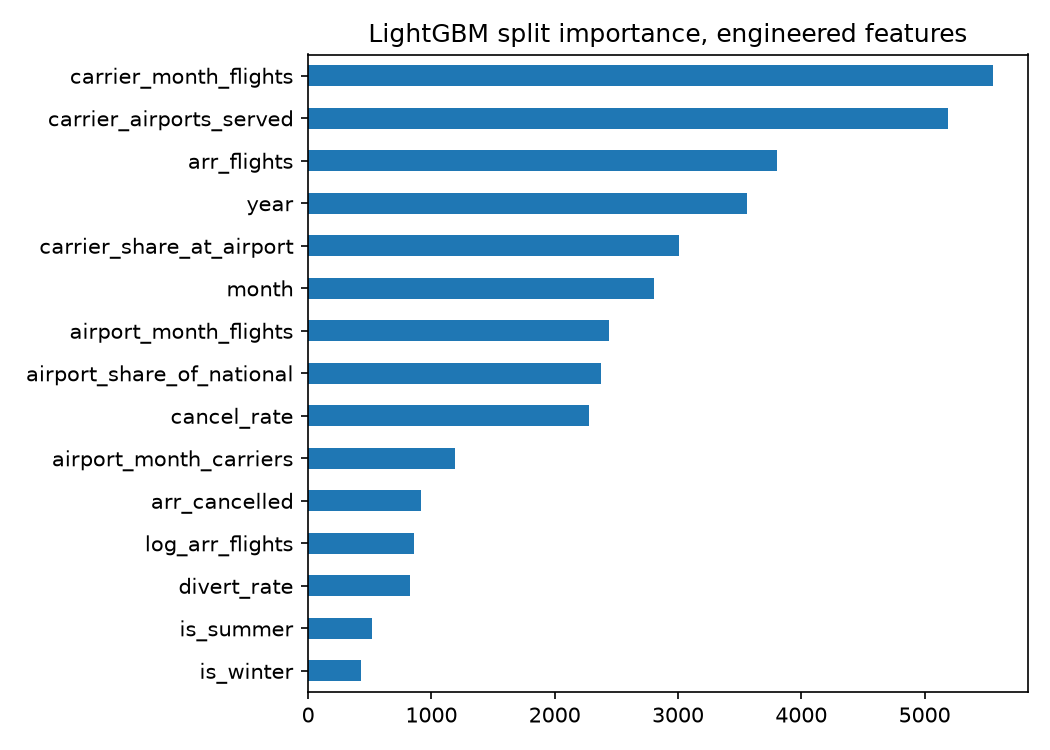
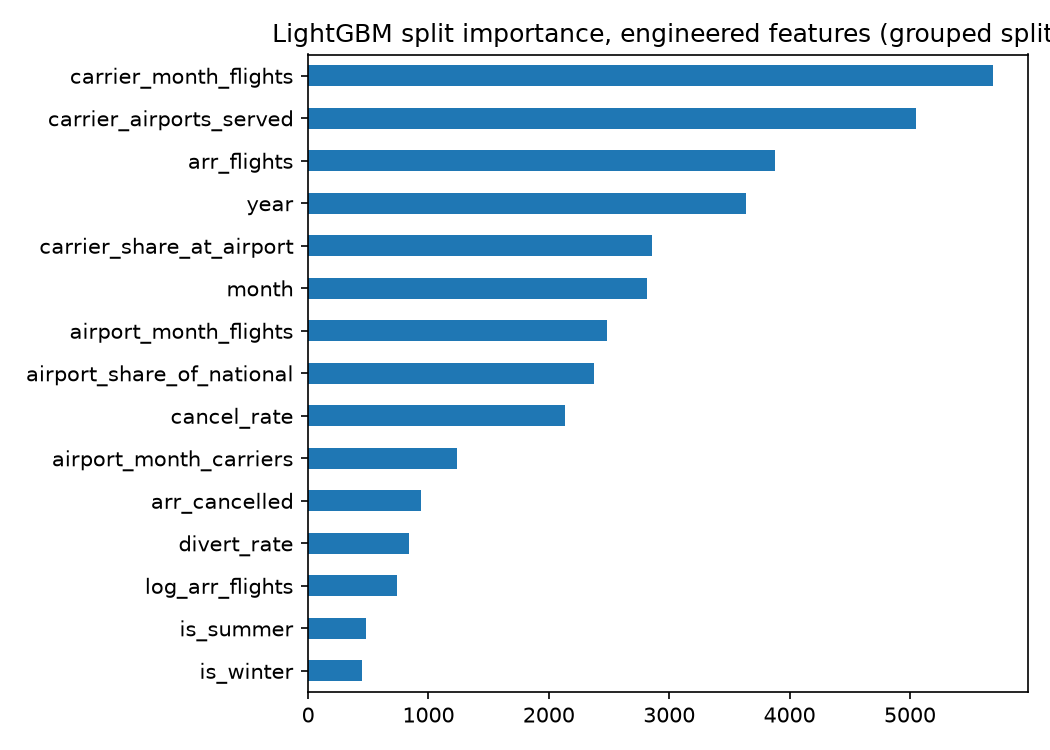
Evaluate on a grouped carrier-airport split as well as the random one
Random stratified split puts 2,528 of 2,630 pairs on both sides and reads 0.869 AUC for LightGBM;
grouping by pair (no overlap) reads 0.852, the number worth quoting.

diff --git a/train.py b/train.py
@@ -9,6 +9,10 @@ Features are built only from traffic volume, market structure, seasonality and d
 delay-cause columns (carrier_ct, weather_ct, nas_ct, ..., arr_delay minutes) are deliberately
 excluded: they are components of the target and would leak it.
 
+Two evaluations are run. A random stratified 80/20 split, as in the course report, and a grouped
+split where every carrier-airport pair lands entirely in train or entirely in test, so the model
+is scored on pairs it has never seen. The grouped number is the one worth quoting.
+
 Usage: python train.py [--data data/Airline_Delay_Cause.csv] [--out results]
 """
 from __future__ import annotations
@@ -24,7 +28,7 @@ from sklearn.metrics import (
     accuracy_score, classification_report, confusion_matrix, f1_score,
     precision_score, recall_score, roc_auc_score, roc_curve,
 )
-from sklearn.model_selection import train_test_split
+from sklearn.model_selection import GroupShuffleSplit, train_test_split
 
 LEAK_COLS = [
     "arr_del15", "carrier_ct", "weather_ct", "nas_ct", "security_ct", "late_aircraft_ct",
@@ -32,7 +36,7 @@ LEAK_COLS = [
 ]
 
 
-def build_features(df: pd.DataFrame) -> tuple[pd.DataFrame, pd.Series]:
+def build_features(df: pd.DataFrame) -> tuple[pd.DataFrame, pd.Series, pd.Series]:
     df = df.dropna(subset=["arr_flights", "arr_del15"]).copy()
     df = df[df["arr_flights"] >= 1]
     df["delay_rate"] = df["arr_del15"] / df["arr_flights"]
@@ -66,10 +70,11 @@ def build_features(df: pd.DataFrame) -> tuple[pd.DataFrame, pd.Series]:
     # identity of carrier and airport, one-hot encoded
     cats = pd.get_dummies(df[["carrier", "airport"]], prefix=["carrier", "airport"], dtype=np.uint8)
     f = pd.concat([f, cats], axis=1)
-    return f, y
+    groups = (df["carrier"] + "|" + df["airport"]).rename("pair")
+    return f, y, groups
 
 
-def evaluate(name: str, model, X_test, y_test, out: Path) -> dict:
+def evaluate(name: str, model, X_test, y_test) -> dict:
     proba = model.predict_proba(X_test)[:, 1]
     pred = (proba >= 0.5).astype(int)
     m = {
@@ -84,11 +89,22 @@ def evaluate(name: str, model, X_test, y_test, out: Path) -> dict:
     }
     print(f"\n=== {name} ===")
     for k, v in m.items():
-        if k != "confusion_matrix": print(f"{k:>22}: {v}")
+        if k != "confusion_matrix":
+            print(f"{k:>22}: {v}")
     print(classification_report(y_test, pred, target_names=["low delay", "high delay"]))
     fpr, tpr, _ = roc_curve(y_test, proba)
     m["_roc"] = (fpr, tpr)
     return m
+
+
+def make_models():
+    import lightgbm as lgb
+    rf = RandomForestClassifier(n_estimators=300, max_features="sqrt", class_weight="balanced",
+                                min_samples_leaf=2, n_jobs=-1, random_state=42)
+    gbm = lgb.LGBMClassifier(n_estimators=800, learning_rate=0.03, num_leaves=63, subsample=0.8,
+                             subsample_freq=1, colsample_bytree=0.8, class_weight="balanced",
+                             random_state=42, verbose=-1)
+    return [("Random Forest", rf), ("LightGBM", gbm)]
 
 
 def main() -> None:
@@ -96,51 +112,63 @@ def main() -> None:
     ap.add_argument("--data", default="data/Airline_Delay_Cause.csv")
     ap.add_argument("--out", default="results")
     args = ap.parse_args()
-    out = Path(args.out); out.mkdir(parents=True, exist_ok=True)
+    out = Path(args.out)
+    out.mkdir(parents=True, exist_ok=True)
 
     df = pd.read_csv(args.data)
     print("raw rows:", len(df), "columns:", len(df.columns))
-    X, y = build_features(df)
-    print("rows after cleaning:", len(X), "| features:", X.shape[1],
-          f"({X.shape[1] - X.columns.str.startswith(('carrier_', 'airport_')).sum() + 6} engineered + one-hot ids)")
+    X, y, groups = build_features(df)
+    n_ids = int(X.columns.str.startswith(("carrier_", "airport_")).sum()) - 6  # six engineered columns share those prefixes
+    print(f"rows after cleaning: {len(X)} | features: {X.shape[1]} ({X.shape[1] - n_ids} engineered + {n_ids} one-hot ids)"
+          f" | carrier-airport pairs: {groups.nunique()}")
     print("high-delay share: %.3f" % y.mean())
 
-    X_train, X_test, y_train, y_test = train_test_split(X, y, test_size=0.2, random_state=42, stratify=y)
-    print("train:", X_train.shape, "test:", X_test.shape)
+    idx = np.arange(len(X))
+    splits = {}
+    splits["random_stratified"] = train_test_split(idx, test_size=0.2, random_state=42, stratify=y)
+    splits["grouped_by_pair"] = next(GroupShuffleSplit(n_splits=1, test_size=0.2, random_state=42).split(X, y, groups))
 
-    rf = RandomForestClassifier(n_estimators=300, max_features="sqrt", class_weight="balanced",
-                                min_samples_leaf=2, n_jobs=-1, random_state=42)
-    rf.fit(X_train, y_train)
-    rf_m = evaluate("Random Forest", rf, X_test, y_test, out)
+    results, gbm_grouped = {}, None
+    for split_name, (tr, te) in splits.items():
+        X_train, X_test, y_train, y_test = X.iloc[tr], X.iloc[te], y.iloc[tr], y.iloc[te]
+        shared = len(set(groups.iloc[tr]) & set(groups.iloc[te]))
+        print(f"\n########## split: {split_name} | train {len(tr)} test {len(te)} | pairs on both sides: {shared} ##########")
+        results[split_name] = {"n_train": int(len(tr)), "n_test": int(len(te)), "pairs_on_both_sides": shared, "models": []}
+        for name, model in make_models():
+            model.fit(X_train, y_train)
+            results[split_name]["models"].append(evaluate(name, model, X_test, y_test))
+            if split_name == "grouped_by_pair" and name == "LightGBM":
+                gbm_grouped = model
 
-    import lightgbm as lgb
-    gbm = lgb.LGBMClassifier(n_estimators=800, learning_rate=0.03, num_leaves=63, subsample=0.8,
-                             subsample_freq=1, colsample_bytree=0.8, class_weight="balanced",
-                             random_state=42, verbose=-1)
-    gbm.fit(X_train, y_train)
-    gbm_m = evaluate("LightGBM", gbm, X_test, y_test, out)
-
-    # plots
+    # plots, from the grouped split
     import matplotlib
     matplotlib.use("Agg")
     import matplotlib.pyplot as plt
     plt.figure(figsize=(5.5, 5))
-    for m in (rf_m, gbm_m):
-        fpr, tpr = m["_roc"]; plt.plot(fpr, tpr, label=f"{m['model']} (AUC {m['roc_auc']:.3f})")
-    plt.plot([0, 1], [0, 1], "--", color="grey"); plt.xlabel("False positive rate"); plt.ylabel("True positive rate")
-    plt.title("High-delay month: ROC on the held-out 20%"); plt.legend(); plt.tight_layout(); plt.savefig(out / "roc.png", dpi=150)
+    for m in results["grouped_by_pair"]["models"]:
+        fpr, tpr = m["_roc"]
+        plt.plot(fpr, tpr, label=f"{m['model']} (AUC {m['roc_auc']:.3f})")
+    plt.plot([0, 1], [0, 1], "--", color="grey")
+    plt.xlabel("False positive rate"); plt.ylabel("True positive rate")
+    plt.title("High-delay month: ROC on unseen carrier-airport pairs"); plt.legend(); plt.tight_layout()
+    plt.savefig(out / "roc.png", dpi=150)
 
-    imp = pd.Series(gbm.feature_importances_, index=X.columns)
-    eng = imp[~imp.index.str.startswith(("carrier_", "airport_")) | imp.index.isin(
-        ["carrier_month_flights", "carrier_share_at_airport", "carrier_airports_served", "airport_month_flights", "airport_month_carriers", "airport_share_of_national"])]
-    top = eng.sort_values(ascending=False).head(15)
-    plt.figure(figsize=(7, 5)); top[::-1].plot.barh(); plt.title("LightGBM split importance, engineered features")
+    imp = pd.Series(gbm_grouped.feature_importances_, index=X.columns)
+    engineered = [c for c in X.columns if not (c.startswith("carrier_") or c.startswith("airport_"))] + [
+        "carrier_month_flights", "carrier_share_at_airport", "carrier_airports_served",
+        "airport_month_flights", "airport_month_carriers", "airport_share_of_national"]
+    top = imp[engineered].sort_values(ascending=False).head(15)
+    plt.figure(figsize=(7, 5)); top[::-1].plot.barh()
+    plt.title("LightGBM split importance, engineered features (grouped split)")
     plt.tight_layout(); plt.savefig(out / "feature_importance.png", dpi=150)
 
-    for m in (rf_m, gbm_m): m.pop("_roc")
-    (out / "metrics.json").write_text(json.dumps({"n_train": len(X_train), "n_test": len(X_test),
-        "n_features": int(X.shape[1]), "high_delay_share": round(float(y.mean()), 4),
-        "models": [rf_m, gbm_m], "top_engineered_features": top.round(1).to_dict()}, indent=2))
+    for r in results.values():
+        for m in r["models"]:
+            m.pop("_roc", None)
+    (out / "metrics.json").write_text(json.dumps({
+        "n_rows": int(len(X)), "n_features": int(X.shape[1]), "n_pairs": int(groups.nunique()),
+        "high_delay_share": round(float(y.mean()), 4), "splits": results,
+        "top_engineered_features_grouped_lightgbm": top.round(1).to_dict()}, indent=2))
     print("\nwrote", out / "metrics.json")
 
 

diff --git a/README.md b/README.md
@@ -32,17 +32,30 @@ Target balance: 39% of rows are high-delay months. Both models use `class_weight
 
 ## Results
 
-Stratified 80/20 split, 136,978 training rows, 34,245 held out. Numbers are from `results/metrics.json`,
-produced by `python train.py`.
+Two held-out evaluations, both 80/20, both from `python train.py` (numbers in `results/metrics.json`).
+
+**Random stratified split.** This is how the course report split the data. Because every
+carrier-airport pair has up to 132 monthly rows, 2,528 of the 2,630 pairs end up on both sides of
+the split, and the models partly memorise pairs rather than learn what makes a month bad.
+
+| Model | Accuracy | ROC-AUC | High-delay precision | High-delay recall |
+|---|---|---|---|---|
+| Random Forest (300 trees) | 77.1% | 0.854 | 0.69 | 0.75 |
+| LightGBM (800 rounds, 63 leaves) | 78.1% | 0.869 | 0.69 | 0.79 |
+
+**Grouped split by carrier-airport pair.** Every pair is entirely in train or entirely in test
+(zero overlap, 526 unseen pairs in the test set). This is the honest number: how well the model
+predicts a bad month for a carrier-airport combination it has never seen.
 
 | Model | Accuracy | ROC-AUC | High-delay precision | High-delay recall | F1 (high delay) |
 |---|---|---|---|---|---|
-| Random Forest (300 trees) | 77.1% | 0.854 | 0.69 | 0.75 | 0.72 |
-| LightGBM (800 rounds, 63 leaves) | 78.1% | 0.869 | 0.69 | 0.79 | 0.74 |
+| Random Forest (300 trees) | 76.1% | 0.839 | 0.68 | 0.75 | 0.71 |
+| LightGBM (800 rounds, 63 leaves) | 76.2% | **0.852** | 0.67 | 0.79 | 0.72 |
 
-LightGBM wins on every metric, most usefully on recall for the high-delay class: it catches 79%
-of bad months against 75% for the forest, at the same precision. In the course report, which used
-a slightly different feature set, the same comparison came out at 0.83 versus 0.849 AUC.
+The random split overstates LightGBM by about 0.017 AUC. The grouped number is the one quoted on
+my portfolio. LightGBM beats the forest on both splits, most usefully on recall for the
+high-delay class: it catches 79% of bad months against 75%. The course report, with a slightly
+different feature set and the random split, found 0.83 against 0.849.
 
 ![ROC curves](results/roc.png)
 
@@ -61,7 +74,7 @@ pip install -r requirements.txt
 python train.py
 ```
 
-Runs in about 90 seconds on a laptop CPU and writes `results/metrics.json`, `results/roc.png` and
+Runs in about two minutes on a laptop CPU and writes `results/metrics.json`, `results/roc.png` and
 `results/feature_importance.png`.
 
 ## Data
